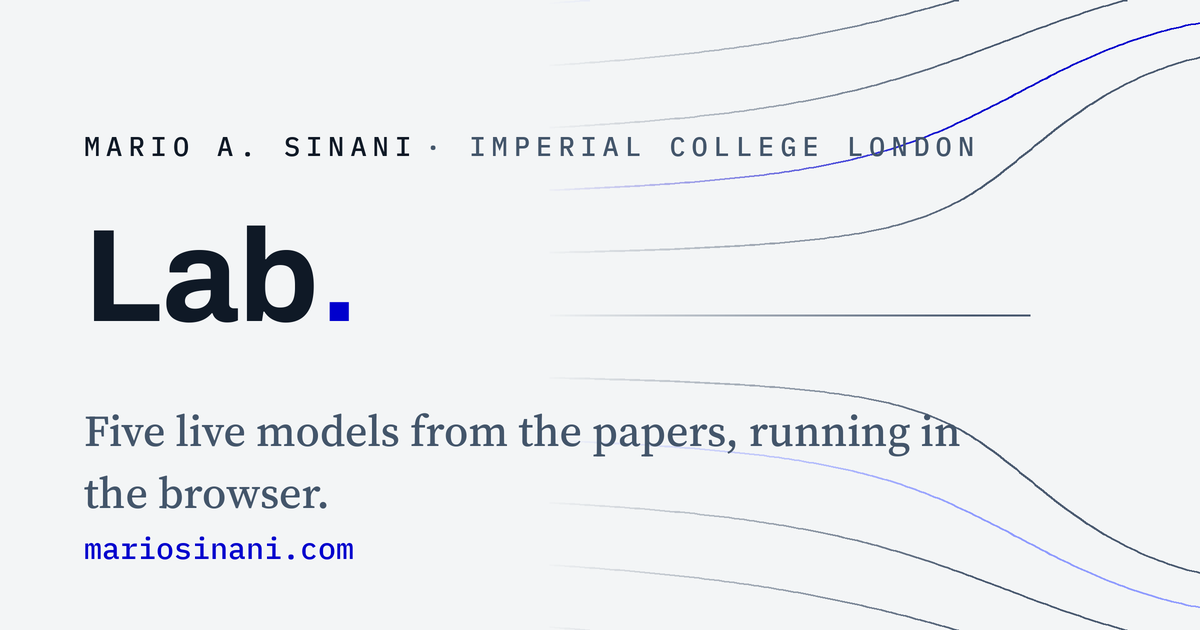
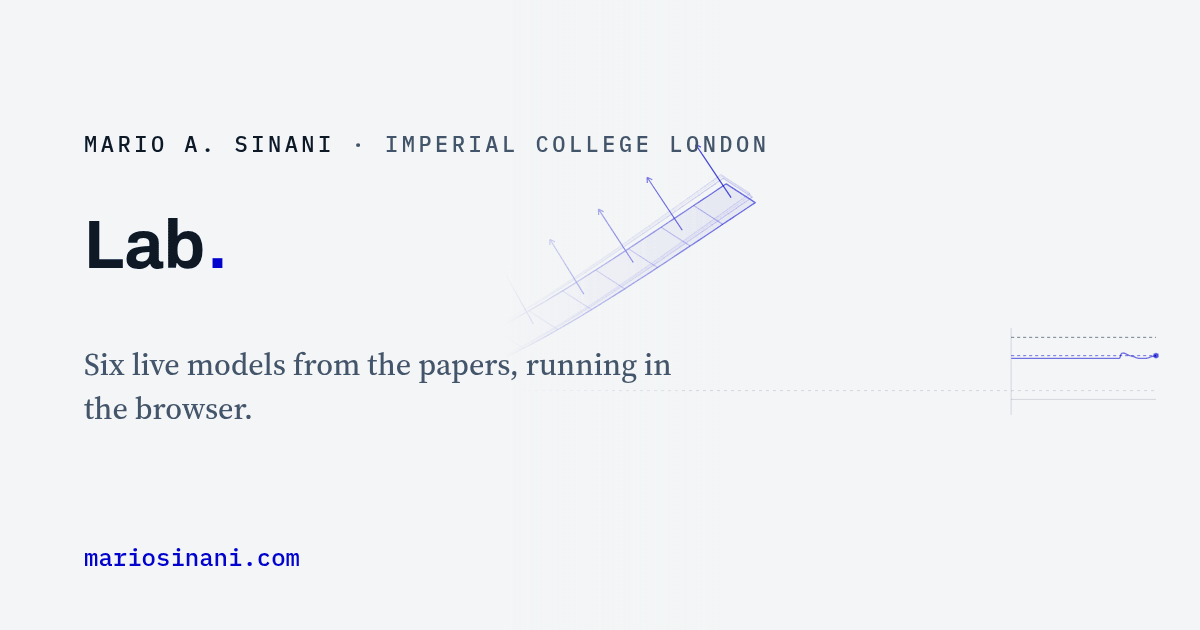
Add a social card for each model of the lab

diff --git a/lab/event-triggered-plan/index.html b/lab/event-triggered-plan/index.html
@@ -25,7 +25,7 @@
   <meta property="og:locale" content="en_US">
   <meta property="og:title" content="A Plan Only at an Event - A Live Model of Event Control">
   <meta property="og:description" content="The craft follows its plan in an open loop. It plans again only when the measured state departs from the predicted one, or when the horizon ends. Each mark on its path is one plan.">
-  <meta property="og:image" content="https://mariosinani.com/assets/og/lab.png">
+  <meta property="og:image" content="https://mariosinani.com/assets/og/lab-event-triggered-plan.png">
   <meta property="og:image:type" content="image/png">
   <meta property="og:image:width" content="1200">
   <meta property="og:image:height" content="630">
@@ -35,7 +35,7 @@
   <meta name="twitter:card" content="summary_large_image">
   <meta name="twitter:title" content="A Plan Only at an Event - A Live Model of Event Control">
   <meta name="twitter:description" content="The craft follows its plan in an open loop. It plans again only when the measured state departs from the predicted one, or when the horizon ends. Each mark on its path is one plan.">
-  <meta name="twitter:image" content="https://mariosinani.com/assets/og/lab.png">
+  <meta name="twitter:image" content="https://mariosinani.com/assets/og/lab-event-triggered-plan.png">
   <meta name="twitter:image:alt" content="An octorotor seen from above that follows a coastline, with the frame of its camera, a dashed plan ahead of it and a mark on its path for each new plan.">
 
   <!-- The icons and the manifest -->
@@ -141,7 +141,7 @@
   ],
   "primaryImageOfPage": {
     "@type": "ImageObject",
-    "url": "https://mariosinani.com/assets/og/lab.png",
+    "url": "https://mariosinani.com/assets/og/lab-event-triggered-plan.png",
     "width": 1200,
     "height": 630
   },

diff --git a/lab/coast-in-the-camera/index.html b/lab/coast-in-the-camera/index.html
@@ -25,7 +25,7 @@
   <meta property="og:locale" content="en_US">
   <meta property="og:title" content="The Coast in the Camera - A Live Model of Visual Servoing">
   <meta property="og:description" content="The coast as the downward camera sees it. The corners of the detected box are the features, and the controller solves again only when the tracking departs from its prediction.">
-  <meta property="og:image" content="https://mariosinani.com/assets/og/lab.png">
+  <meta property="og:image" content="https://mariosinani.com/assets/og/lab-coast-in-the-camera.png">
   <meta property="og:image:type" content="image/png">
   <meta property="og:image:width" content="1200">
   <meta property="og:image:height" content="630">
@@ -35,7 +35,7 @@
   <meta name="twitter:card" content="summary_large_image">
   <meta name="twitter:title" content="The Coast in the Camera - A Live Model of Visual Servoing">
   <meta name="twitter:description" content="The coast as the downward camera sees it. The corners of the detected box are the features, and the controller solves again only when the tracking departs from its prediction.">
-  <meta name="twitter:image" content="https://mariosinani.com/assets/og/lab.png">
+  <meta name="twitter:image" content="https://mariosinani.com/assets/og/lab-coast-in-the-camera.png">
   <meta name="twitter:image:alt" content="The frame of a downward camera with a coastline through it, the box of the detection and its four corners, and a chart of the error against time.">
 
   <!-- The icons and the manifest -->
@@ -129,7 +129,7 @@
   },
   "primaryImageOfPage": {
     "@type": "ImageObject",
-    "url": "https://mariosinani.com/assets/og/lab.png",
+    "url": "https://mariosinani.com/assets/og/lab-coast-in-the-camera.png",
     "width": 1200,
     "height": 630
   },

diff --git a/lab/flared-hinge-wingtip/index.html b/lab/flared-hinge-wingtip/index.html
@@ -25,7 +25,7 @@
   <meta property="og:locale" content="en_US">
   <meta property="og:title" content="A Wing Tip on a Flared Hinge - A Live Multibody Model">
   <meta property="og:description" content="The flow starts, the wing bends up, and the tip on its flared hinge folds to the angle where its own lift carries it: 45 degrees at 10 degrees of incidence, as in the paper.">
-  <meta property="og:image" content="https://mariosinani.com/assets/og/lab.png">
+  <meta property="og:image" content="https://mariosinani.com/assets/og/lab-flared-hinge-wingtip.png">
   <meta property="og:image:type" content="image/png">
   <meta property="og:image:width" content="1200">
   <meta property="og:image:height" content="630">
@@ -35,7 +35,7 @@
   <meta name="twitter:card" content="summary_large_image">
   <meta name="twitter:title" content="A Wing Tip on a Flared Hinge - A Live Multibody Model">
   <meta name="twitter:description" content="The flow starts, the wing bends up, and the tip on its flared hinge folds to the angle where its own lift carries it: 45 degrees at 10 degrees of incidence, as in the paper.">
-  <meta name="twitter:image" content="https://mariosinani.com/assets/og/lab.png">
+  <meta name="twitter:image" content="https://mariosinani.com/assets/og/lab-flared-hinge-wingtip.png">
   <meta name="twitter:image:alt" content="A wing seen from the front, bent upward, with its tip folded up about a hinge and a chart of the fold angle against time.">
 
   <!-- The icons and the manifest -->
@@ -129,7 +129,7 @@
   },
   "primaryImageOfPage": {
     "@type": "ImageObject",
-    "url": "https://mariosinani.com/assets/og/lab.png",
+    "url": "https://mariosinani.com/assets/og/lab-flared-hinge-wingtip.png",
     "width": 1200,
     "height": 630
   },

diff --git a/lab/pazy-flutter-boundary/index.html b/lab/pazy-flutter-boundary/index.html
@@ -25,7 +25,7 @@
   <meta property="og:locale" content="en_US">
   <meta property="og:title" content="Flutter Across the Angle of Attack - A Live Model of the Pazy Wing">
   <meta property="og:description" content="The Pazy wing at its trim. Between 3 and 4.6 degrees a perturbation grows, below and above it decays: the flutter band the parametric model of the paper learns.">
-  <meta property="og:image" content="https://mariosinani.com/assets/og/lab.png">
+  <meta property="og:image" content="https://mariosinani.com/assets/og/lab-pazy-flutter-boundary.png">
   <meta property="og:image:type" content="image/png">
   <meta property="og:image:width" content="1200">
   <meta property="og:image:height" content="630">
@@ -35,7 +35,7 @@
   <meta name="twitter:card" content="summary_large_image">
   <meta name="twitter:title" content="Flutter Across the Angle of Attack - A Live Model of the Pazy Wing">
   <meta name="twitter:description" content="The Pazy wing at its trim. Between 3 and 4.6 degrees a perturbation grows, below and above it decays: the flutter band the parametric model of the paper learns.">
-  <meta name="twitter:image" content="https://mariosinani.com/assets/og/lab.png">
+  <meta name="twitter:image" content="https://mariosinani.com/assets/og/lab-pazy-flutter-boundary.png">
   <meta name="twitter:image:alt" content="The Pazy wing at its trim, with a fan of trims behind it and a chart of the growth rate against the angle of attack.">
 
   <!-- The icons and the manifest -->
@@ -130,7 +130,7 @@
   },
   "primaryImageOfPage": {
     "@type": "ImageObject",
-    "url": "https://mariosinani.com/assets/og/lab.png",
+    "url": "https://mariosinani.com/assets/og/lab-pazy-flutter-boundary.png",
     "width": 1200,
     "height": 630
   },

diff --git a/lab/beam-mode-energy/index.html b/lab/beam-mode-energy/index.html
@@ -25,7 +25,7 @@
   <meta property="og:locale" content="en_US">
   <meta property="og:title" content="Energy Between the Modes of a Beam - A Live Model">
   <meta property="og:description" content="A beam whose bending and axial modes exchange energy through a quadratic coupling. The bars are the energy in each mode, and the dashed line the bound on the average.">
-  <meta property="og:image" content="https://mariosinani.com/assets/og/lab.png">
+  <meta property="og:image" content="https://mariosinani.com/assets/og/lab-beam-mode-energy.png">
   <meta property="og:image:type" content="image/png">
   <meta property="og:image:width" content="1200">
   <meta property="og:image:height" content="630">
@@ -35,7 +35,7 @@
   <meta name="twitter:card" content="summary_large_image">
   <meta name="twitter:title" content="Energy Between the Modes of a Beam - A Live Model">
   <meta name="twitter:description" content="A beam whose bending and axial modes exchange energy through a quadratic coupling. The bars are the energy in each mode, and the dashed line the bound on the average.">
-  <meta name="twitter:image" content="https://mariosinani.com/assets/og/lab.png">
+  <meta name="twitter:image" content="https://mariosinani.com/assets/og/lab-beam-mode-energy.png">
   <meta name="twitter:image:alt" content="A clamped beam in its first bending mode, with ticks that move along it and bars for the energy in each mode.">
 
   <!-- The icons and the manifest -->
@@ -129,7 +129,7 @@
   },
   "primaryImageOfPage": {
     "@type": "ImageObject",
-    "url": "https://mariosinani.com/assets/og/lab.png",
+    "url": "https://mariosinani.com/assets/og/lab-beam-mode-energy.png",
     "width": 1200,
     "height": 630
   },

diff --git a/lab/pazy-step-response/index.html b/lab/pazy-step-response/index.html
@@ -25,7 +25,7 @@
   <meta property="og:locale" content="en_US">
   <meta property="og:title" content="A Step in the Angle of Attack - A Live Model of the Pazy Wing">
   <meta property="og:description" content="The Pazy wing gets a step in the angle of attack and answers with a transient. The wing is so flexible that the force is a nonlinear function of its shape.">
-  <meta property="og:image" content="https://mariosinani.com/assets/og/lab.png">
+  <meta property="og:image" content="https://mariosinani.com/assets/og/lab-pazy-step-response.png">
   <meta property="og:image:type" content="image/png">
   <meta property="og:image:width" content="1200">
   <meta property="og:image:height" content="630">
@@ -35,7 +35,7 @@
   <meta name="twitter:card" content="summary_large_image">
   <meta name="twitter:title" content="A Step in the Angle of Attack - A Live Model of the Pazy Wing">
   <meta name="twitter:description" content="The Pazy wing gets a step in the angle of attack and answers with a transient. The wing is so flexible that the force is a nonlinear function of its shape.">
-  <meta name="twitter:image" content="https://mariosinani.com/assets/og/lab.png">
+  <meta name="twitter:image" content="https://mariosinani.com/assets/og/lab-pazy-step-response.png">
   <meta name="twitter:image:alt" content="The Pazy wing bent upward after a step in the angle of attack, with the load along its span.">
 
   <!-- The icons and the manifest -->
@@ -130,7 +130,7 @@
   },
   "primaryImageOfPage": {
     "@type": "ImageObject",
-    "url": "https://mariosinani.com/assets/og/lab.png",
+    "url": "https://mariosinani.com/assets/og/lab-pazy-step-response.png",
     "width": 1200,
     "height": 630
   },
